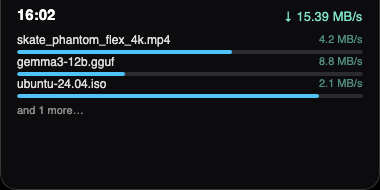
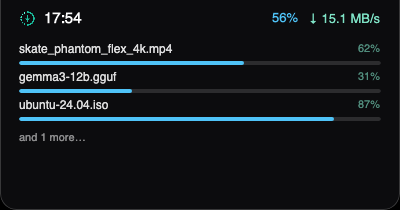
feat(notch): info wings around the physical notch + paused items in the island
Author feedback: with the pill sitting at the real macOS notch, centered
content hid behind the webcam housing ("empty rectangle"). The collapsed
layout now puts info on wings flanking a hardware-sized center gap: the
Downloader logo + live total speed on the left, aggregate percent + clock on
the right (gap collapses on Windows/Linux). The expanded island lists paused
items alongside running ones (status shows "62% · Paused"), adds the logo and
totals to its header, and spaces rows more generously. Suite 223/223.

Claude-Session: https://claude.ai/code/session_012Yp8vnuq1c2uEEMSCY5UkR

diff --git a/src/Downloader.Desktop/ViewModels/NotchViewModel.cs b/src/Downloader.Desktop/ViewModels/NotchViewModel.cs
@@ -9,12 +9,12 @@ using ReactiveUI;
 namespace Downloader.Desktop.ViewModels;
 
 /// <summary>
-/// Backs the notch overlay ("dynamic island"): a live clock, the running downloads (top few) and their
-/// aggregate speed. Pure view over <see cref="IDownloadManager"/> — no new download plumbing.
+/// Backs the notch overlay ("dynamic island"): a live clock, the active (running + paused) downloads
+/// and their aggregate speed/percent. Pure view over <see cref="IDownloadManager"/>.
 /// </summary>
 public class NotchViewModel : ViewModelBase, IDisposable
 {
-    /// <summary>How many running rows the expanded island lists before "and N more…".</summary>
+    /// <summary>How many active rows the expanded island lists before "and N more…".</summary>
     public const int MaxRows = 3;
 
     private readonly IDownloadManager _manager;
@@ -22,6 +22,7 @@ public class NotchViewModel : ViewModelBase, IDisposable
     private bool _isExpanded;
     private string _timeText = DateTime.Now.ToString("HH:mm");
     private string _totalSpeedText = "";
+    private string _totalPercentText = "";
     private string _overflowText;
 
     public NotchViewModel(IDownloadManager manager)
@@ -36,6 +37,13 @@ public class NotchViewModel : ViewModelBase, IDisposable
         OnStatsChanged();
     }
 
+    /// <summary>On macOS the pill sits AT the physical notch, so the collapsed content must live on the
+    /// WINGS beside the webcam housing — the center column is a hardware-sized gap. Elsewhere there is
+    /// no cutout and the gap collapses.</summary>
+    public static bool IsMac => OperatingSystem.IsMacOS();
+    public static double NotchGapWidth => IsMac ? 185 : 6;
+
+    /// <summary>Running first, then paused (top <see cref="MaxRows"/>).</summary>
     public ObservableCollection<DownloadItemViewModel> RunningRows { get; } = new();
 
     public string TimeText
@@ -44,7 +52,7 @@ public class NotchViewModel : ViewModelBase, IDisposable
         private set => this.RaiseAndSetIfChanged(ref _timeText, value);
     }
 
-    /// <summary>Aggregate ↓speed shown in the pill while anything is running ("" when idle).</summary>
+    /// <summary>Aggregate ↓speed shown while anything is running ("" when idle).</summary>
     public string TotalSpeedText
     {
         get => _totalSpeedText;
@@ -56,6 +64,19 @@ public class NotchViewModel : ViewModelBase, IDisposable
     }
 
     public bool HasActivity => !string.IsNullOrEmpty(_totalSpeedText);
+
+    /// <summary>Average completion of the active downloads, e.g. "62%" ("" when idle).</summary>
+    public string TotalPercentText
+    {
+        get => _totalPercentText;
+        private set
+        {
+            this.RaiseAndSetIfChanged(ref _totalPercentText, value);
+            this.RaisePropertyChanged(nameof(HasPercent));
+        }
+    }
+
+    public bool HasPercent => !string.IsNullOrEmpty(_totalPercentText);
 
     /// <summary>"and N more…" under the listed rows, or null when everything fits.</summary>
     public string OverflowText
@@ -81,26 +102,34 @@ public class NotchViewModel : ViewModelBase, IDisposable
 
     private void OnStatsChanged()
     {
-        var running = _manager?.Items?.Where(i => i.Status == DownloadStatus.Running).ToList()
-                      ?? new System.Collections.Generic.List<DownloadItemViewModel>();
+        // Active = running + paused (the author wants paused items visible in the island too).
+        var items = _manager?.Items;
+        var active = items == null
+            ? new System.Collections.Generic.List<DownloadItemViewModel>()
+            : items.Where(i => i.Status is DownloadStatus.Running or DownloadStatus.Paused)
+                   .OrderBy(i => i.Status == DownloadStatus.Running ? 0 : 1)
+                   .ToList();
 
         // Rebuild in place only when membership changed (rows self-update their progress/speed).
-        if (!running.Take(MaxRows).SequenceEqual(RunningRows))
+        if (!active.Take(MaxRows).SequenceEqual(RunningRows))
         {
             RunningRows.Clear();
-            foreach (var vm in running.Take(MaxRows))
+            foreach (var vm in active.Take(MaxRows))
                 RunningRows.Add(vm);
             this.RaisePropertyChanged(nameof(HasRows));
         }
 
-        OverflowText = running.Count > MaxRows
-            ? string.Format(Localizer.Instance["Notch_More"], running.Count - MaxRows)
+        OverflowText = active.Count > MaxRows
+            ? string.Format(Localizer.Instance["Notch_More"], active.Count - MaxRows)
             : null;
 
+        var running = active.Count(i => i.Status == DownloadStatus.Running);
         var speed = _manager?.TotalSpeed ?? 0;
-        TotalSpeedText = running.Count > 0 && speed > 0
+        TotalSpeedText = running > 0 && speed > 0
             ? "↓ " + DownloadItemViewModel.FormatBytes((long)speed) + "/s"
-            : running.Count > 0 ? "↓" : "";
+            : running > 0 ? "↓" : "";
+
+        TotalPercentText = active.Count > 0 ? $"{active.Average(i => i.Progress):0}%" : "";
     }
 
     public void Dispose()

diff --git a/src/Downloader.Desktop.Tests/NotchTests.cs b/src/Downloader.Desktop.Tests/NotchTests.cs
@@ -93,7 +93,8 @@ public class NotchTests
         var a = AddRunning(manager, "skate_phantom_flex_4k.mp4"); a.Speed = 4.2 * 1024 * 1024; a.Progress = 62;
         var b = AddRunning(manager, "gemma3-12b.gguf"); b.Speed = 8.8 * 1024 * 1024; b.Progress = 31;
         var c = AddRunning(manager, "ubuntu-24.04.iso"); c.Speed = 2.1 * 1024 * 1024; c.Progress = 87;
-        AddRunning(manager, "podcast-ep12.mp3").Speed = 300 * 1024;
+        var d = AddRunning(manager, "podcast-ep12.mp3"); d.Speed = 0; d.Progress = 45;
+        d.Status = global::Downloader.DownloadStatus.Paused; // a paused row shows "45% · Paused"
 
         var outDir = Path.GetFullPath(Path.Combine(AppContext.BaseDirectory,
             "..", "..", "..", "..", "..", "..", "openspec", "changes", "add-dynamic-island-notch"));
@@ -108,7 +109,7 @@ public class NotchTests
             view.CaptureRenderedFrame()!.Save(Path.Combine(outDir, "mockup-collapsed.png"));
 
             vm.IsExpanded = true;
-            view.Width = 380; view.Height = 190;
+            view.Width = 400; view.Height = 210;
             for (var i = 0; i < 8; i++) Avalonia.Threading.Dispatcher.UIThread.RunJobs();
             view.CaptureRenderedFrame()!.Save(Path.Combine(outDir, "mockup-expanded.png"));
         }

diff --git a/src/Downloader.Desktop/Views/NotchView.axaml.cs b/src/Downloader.Desktop/Views/NotchView.axaml.cs
@@ -17,10 +17,12 @@ namespace Downloader.Desktop.Views;
 /// </summary>
 public partial class NotchView : Window
 {
-    // macOS: the collapsed pill approximates the physical notch width so it visually merges with it.
-    private static double CollapsedWidth => OperatingSystem.IsMacOS() ? 200 : 170;
+    // macOS: the collapsed pill is WIDER than the physical notch so the info wings (logo+speed left,
+    // percent+clock right) stay visible beside the webcam housing — content centered under the housing
+    // would be hidden behind it (author-reported "empty rectangle").
+    private static double CollapsedWidth => OperatingSystem.IsMacOS() ? 340 : 230;
     private const double CollapsedHeight = 34;
-    private const double ExpandedWidth = 380, ExpandedHeight = 190;
+    private const double ExpandedWidth = 400, ExpandedHeight = 210;
 
     private readonly DispatcherTimer _collapseDelay;
 

diff --git a/openspec/changes/add-dynamic-island-notch/tasks.md b/openspec/changes/add-dynamic-island-notch/tasks.md
@@ -37,8 +37,15 @@
   `setCollectionBehavior: canJoinAllSpaces|stationary|fullScreenAuxiliary`, positioning centers on the
   FULL screen bounds (the hardware notch is at the physical center) with Y = screen top, and the macOS
   collapsed width is 200 (≈ notch width) so the pill visually merges with it. Win/Linux unchanged.
-- [ ] 4.3 **Author on-device re-verification:** macOS — the pill should now sit AT the notch/webcam area
-  (over the menu-bar strip); Windows/Linux top-center unchanged. Stays in-progress until confirmed.
+- [x] 4.5 **(reprocess — author feedback: "empty rectangle when collapsed")** With the pill now AT the
+  physical notch, centered content hid BEHIND the webcam housing. Collapsed layout redesigned as WINGS
+  flanking a hardware-sized center gap (185px on macOS, collapses elsewhere): left = Downloader logo +
+  live ↓speed, right = total percent (average of active downloads) + clock; collapsed width 340 (mac).
+  Expanded now lists **running AND paused** items (paused show "62% · Paused" via StatusText), gets the
+  logo + totals in the header, and roomier line spacing. Mockups regenerated in this folder.
+- [ ] 4.3 **Author on-device re-verification:** macOS — pill at the notch with visible wings (logo+speed
+  left, percent+clock right); hover shows running+paused with more spacing. Stays in-progress until
+  confirmed.
 
 ## 5. Docs
 
